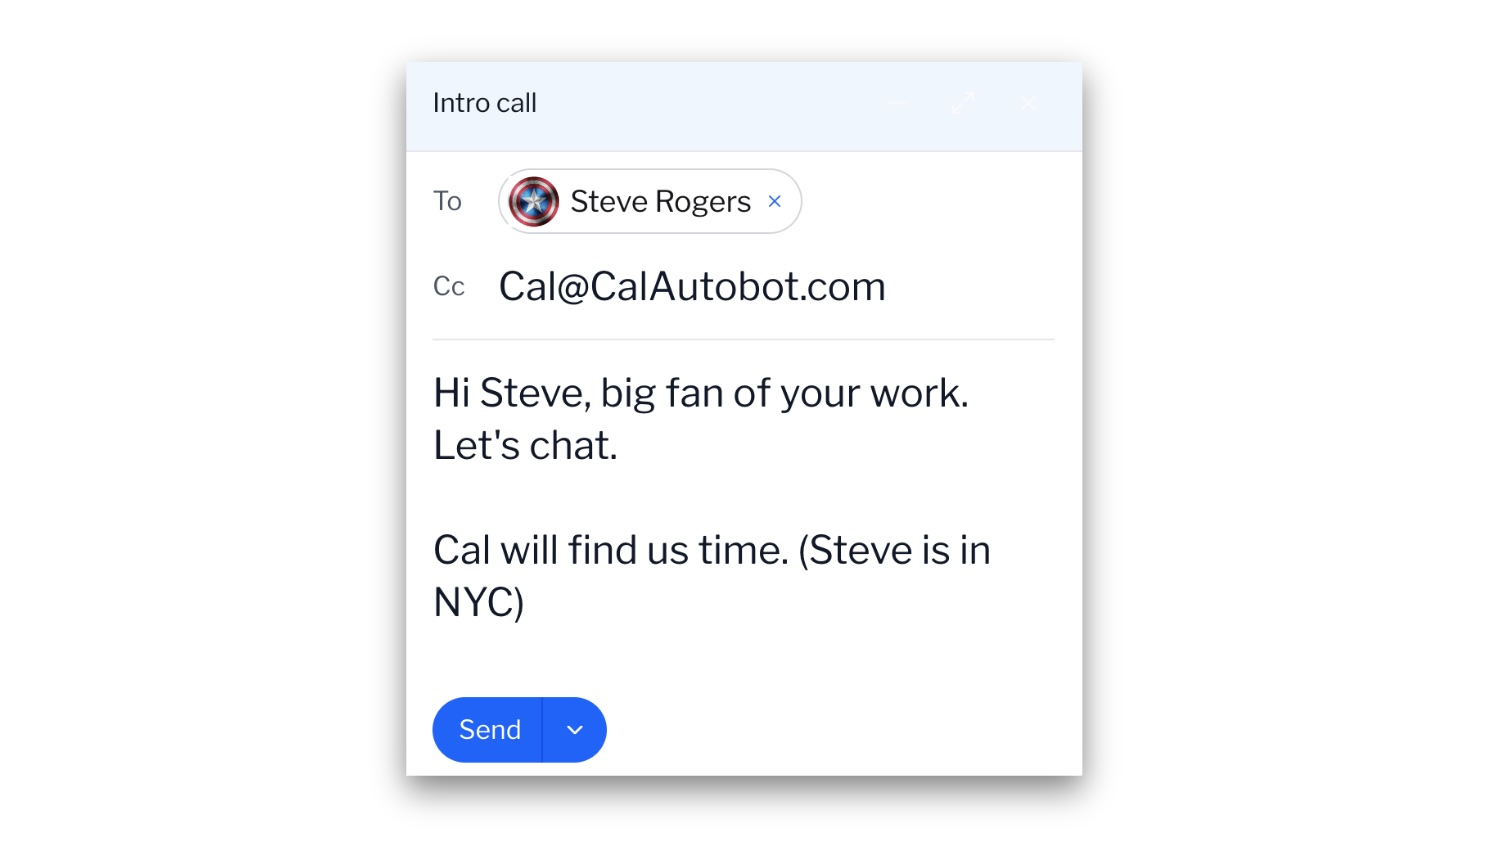
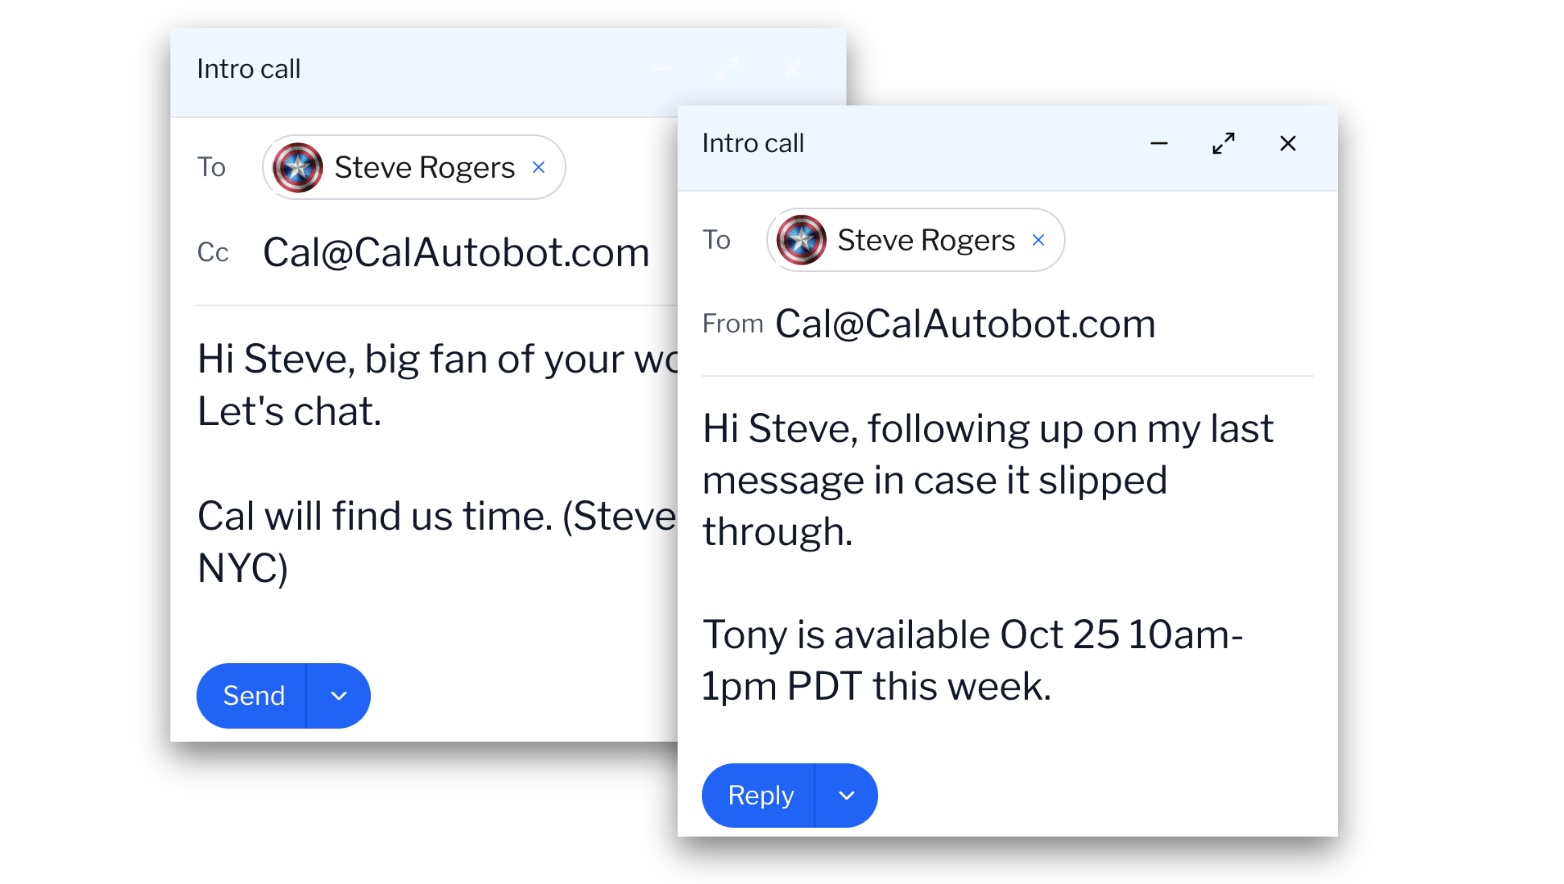
Update product messaging to highlight AI scheduling and follow-up features
Modify Jinja2 templates (base.html, index.html) to reflect enhanced AI scheduling assistant capabilities, including auto follow-ups, reminders, and improved event extraction messaging.

Replit-Commit-Author: Agent
Replit-Commit-Session-Id: d03c0859-d91a-4821-ad53-1dd72adf6981
Replit-Commit-Checkpoint-Type: full_checkpoint
Replit-Commit-Screenshot-Url: https://storage.googleapis.com/screenshot-production-us-central1/2df5bf01-2bac-4ced-b741-7ba31655935b/d03c0859-d91a-4821-ad53-1dd72adf6981/vv8woGl

Changed region(s): [[0.092, 0.061, 0.8893, 0.9765], [0.3067, 0.0915, 0.368, 0.1526], [0.5213, 0.061, 0.552, 0.1221]]

diff --git a/app/templates/index.html b/app/templates/index.html
@@ -629,7 +629,7 @@
         <div class="row justify-content-center">
             <div class="col-lg-10 text-center">
                 <div class="hero-badge">
-                    AI Executive Assistant
+                    AI Scheduling Assistant
                 </div>
 
                 <h1 class="waitlist-title"><strong>Cal,</strong> can you find a time<br/> for us to meet next week?</h1>
@@ -726,8 +726,8 @@
 
         <div class="product-intro-grid">
             <div class="intro-card">
-                <h3>Just CC Cal, 24/7 response</h3>
-                <p>Loop in <strong>Cal@CalAutobot.com</strong> on any thread and Cal reads the full context before proposing times, just like a human scheduler working 24/7.</p>
+                <h3>Auto follow-ups, reminders, 24/7 </h3>
+                <p>Cal reads the full email context, propose times, follows up, and send reminders. Just like a human assistant working 24/7.</p>
                 <div class="intro-card__media">
                     <img src="{{ url_for('static', filename='images/product-cc-cal.jpg') }}" alt="Product shot showing Cal cc'd on an email thread" loading="lazy">
                 </div>
@@ -932,7 +932,7 @@
                     <span class="other-uses-step__badge">Step 1</span>
                     <i data-feather="camera"></i>
                 </div>
-                <h5>Emails, itineraries, flyers, you name it</h5>
+                <h5>Itineraries, flyers, images, you name it</h5>
                 <p>Snap a photo of the event or forward your event confirmation emails.</p>
             </div>
 
@@ -1003,15 +1003,16 @@
                 </a>
                 <p class="fw-semibold mb-2">Includes:</p>
                 <ul class="pricing-features">
-                    <li><i data-feather="check"></i>Email AI assistant</li>
-                    <li><i data-feather="check"></i>Unlimited email scheduling</li>
+                    <li><i data-feather="check"></i>Email AI assistant 🤖</li>
+                    <li><i data-feather="check"></i>Unlimited email scheduling 🤖</li>
                     <li><i data-feather="check"></i>Unlimited bookings</li>
                     <li><i data-feather="check"></i>Unlimited calendars</li>
                     <li><i data-feather="check"></i>Unlimited event types</li>
-                    <li><i data-feather="check"></i>Reminder email</li>
+                    <li><i data-feather="check"></i>Follow up email 🤖</li>
+                    <li><i data-feather="check"></i>Email reminders 🤖</li>
                     <li><i data-feather="check"></i>Public booking page</li>
                     <li><i data-feather="check"></i>Availability settings</li>
-                    <li><i data-feather="check"></i>Unlimited event extraction (images & emails)</li>
+                    <li><i data-feather="check"></i>Unlimited event extraction (images & emails) 🤖</li>
                 </ul>
             </div>
 
@@ -1040,10 +1041,10 @@
                 <p class="fw-semibold mb-2">Everything in Free, plus:</p>
                 <ul class="pricing-features">
                     <li><i data-feather="check"></i>Remove CalAutobot branding</li>
-                    <li><i data-feather="check"></i>Customize AI assistant</li>
+                    <li><i data-feather="check"></i>Customize AI assistant outside of email</li>
                     <li><i data-feather="check"></i>Personalize AI tone & style</li>
                     <li><i data-feather="check"></i>Make AI smarter with your business context</li>
-                    <li><i data-feather="check"></i>Custom AI assistant email domain</li>
+                    <li><i data-feather="check"></i>Custom AI assistant email (AI-name@yourcompany.com)</li>
                     <li><i data-feather="check"></i>Custom booking page with your branding</li>
                 </ul>
             </div>
@@ -1062,34 +1063,110 @@
         
         <div class="row justify-content-center">
             <div class="col-lg-8">
-                <div class="faq-item">
-                    <h4>How does Cal compare to Calendly for Google Calendar scheduling?</h4>
-                    <p>Unlike Calendly, Cal doesn't require recipients to click links or visit websites. It works entirely through email by reading conversation threads and coordinating directly with participants. This maintains the personal touch of email while automating the logistics. Calendly forces people to interact with a separate tool, which creates friction and a 40% drop-off rate.</p>
-                </div>
-                
-                <div class="faq-item">
-                    <h4>Does Cal work with Google Calendar?</h4>
-                    <p>Yes, Cal is designed specifically for Google Calendar integration. It automatically checks your availability, proposes meeting times based on your calendar, and creates Google Calendar events for all participants once a time is confirmed. Everything syncs seamlessly without any manual data entry.</p>
-                </div>
-                
-                <div class="faq-item">
-                    <h4>How much does Cal cost for appointment scheduling?</h4>
-                    <p>Cal Autobot is free. In the future, we'll have more advance features for a small monthly subscription.</p>
-                </div>
-                
-                <div class="faq-item">
-                    <h4>Is Cal better than manual scheduling for online meeting coordination?</h4>
-                    <p>Cal saves sales teams an average of 5+ hours per week compared to manual scheduling. It eliminates the back-and-forth email chains ("Does Tuesday at 2pm work?" "How about Wednesday?") while maintaining the personal touch that scheduling links lack. You get the efficiency of automation with the warmth of direct communication.</p>
-                </div>
-                
-                <div class="faq-item">
-                    <h4>How quickly can I start using Cal for appointment scheduling?</h4>
-                    <p>Setup takes about 30 seconds. Once you have access, you simply CC Cal@CalAutobot.com on any scheduling email thread. Cal reads the conversation context and begins coordinating immediately. No complex configuration, no calendar permissions to manage, no training required.</p>
-                </div>
-                
-                <div class="faq-item">
-                    <h4>What makes Cal different from other AI scheduling assistants?</h4>
-                    <p>Cal focuses on maintaining natural, human-like email conversations. Unlike scheduling links that feel transactional, Cal participates in email threads just like a real executive assistant would. It understands context, handles time zone confusion, and adapts to conversational scheduling requests rather than forcing people into rigid booking flows.</p>
+                <div class="accordion" id="faqAccordion">
+                    <div class="accordion-item">
+                        <h2 class="accordion-header" id="faqHeadingOne">
+                            <button class="accordion-button collapsed" type="button" data-bs-toggle="collapse" data-bs-target="#faqCollapseOne" aria-expanded="false" aria-controls="faqCollapseOne">
+                                How does Cal compare to Calendly for Google Calendar scheduling?
+                            </button>
+                        </h2>
+                        <div id="faqCollapseOne" class="accordion-collapse collapse" aria-labelledby="faqHeadingOne" data-bs-parent="#faqAccordion">
+                            <div class="accordion-body">
+                                Unlike Calendly, Cal doesn't require recipients to click links or visit websites. It works entirely through email by reading conversation threads and coordinating directly with participants. This maintains the personal touch of email while automating the logistics. Calendly forces people to interact with a separate tool, which creates friction and a 40% drop-off rate.
+                            </div>
+                        </div>
+                    </div>
+
+                    <div class="accordion-item">
+                        <h2 class="accordion-header" id="faqHeadingTwo">
+                            <button class="accordion-button collapsed" type="button" data-bs-toggle="collapse" data-bs-target="#faqCollapseTwo" aria-expanded="false" aria-controls="faqCollapseTwo">
+                                Does Cal work with Google Calendar?
+                            </button>
+                        </h2>
+                        <div id="faqCollapseTwo" class="accordion-collapse collapse" aria-labelledby="faqHeadingTwo" data-bs-parent="#faqAccordion">
+                            <div class="accordion-body">
+                                Yes, Cal is designed specifically for Google Calendar integration. It automatically checks your availability, proposes meeting times based on your calendar, and creates Google Calendar events for all participants once a time is confirmed. Everything syncs seamlessly without any manual data entry.
+                            </div>
+                        </div>
+                    </div>
+
+                    <div class="accordion-item">
+                        <h2 class="accordion-header" id="faqHeadingThree">
+                            <button class="accordion-button collapsed" type="button" data-bs-toggle="collapse" data-bs-target="#faqCollapseThree" aria-expanded="false" aria-controls="faqCollapseThree">
+                                How much does Cal cost for appointment scheduling?
+                            </button>
+                        </h2>
+                        <div id="faqCollapseThree" class="accordion-collapse collapse" aria-labelledby="faqHeadingThree" data-bs-parent="#faqAccordion">
+                            <div class="accordion-body">
+                                Cal Autobot is free. In the future, we'll have more advance features for a small monthly subscription.
+                            </div>
+                        </div>
+                    </div>
+
+                    <div class="accordion-item">
+                        <h2 class="accordion-header" id="faqHeadingFour">
+                            <button class="accordion-button collapsed" type="button" data-bs-toggle="collapse" data-bs-target="#faqCollapseFour" aria-expanded="false" aria-controls="faqCollapseFour">
+                                Is Cal better than manual scheduling for online meeting coordination?
+                            </button>
+                        </h2>
+                        <div id="faqCollapseFour" class="accordion-collapse collapse" aria-labelledby="faqHeadingFour" data-bs-parent="#faqAccordion">
+                            <div class="accordion-body">
+                                Cal saves sales teams an average of 5+ hours per week compared to manual scheduling. It eliminates the back-and-forth email chains ("Does Tuesday at 2pm work?" "How about Wednesday?") while maintaining the personal touch that scheduling links lack. You get the efficiency of automation with the warmth of direct communication.
+                            </div>
+                        </div>
+                    </div>
+
+                    <div class="accordion-item">
+                        <h2 class="accordion-header" id="faqHeadingFive">
+                            <button class="accordion-button collapsed" type="button" data-bs-toggle="collapse" data-bs-target="#faqCollapseFive" aria-expanded="false" aria-controls="faqCollapseFive">
+                                How quickly can I start using Cal for appointment scheduling?
+                            </button>
+                        </h2>
+                        <div id="faqCollapseFive" class="accordion-collapse collapse" aria-labelledby="faqHeadingFive" data-bs-parent="#faqAccordion">
+                            <div class="accordion-body">
+                                Setup takes about 30 seconds. Once you have access, you simply CC Cal@CalAutobot.com on any scheduling email thread. Cal reads the conversation context and begins coordinating immediately. No complex configuration, no calendar permissions to manage, no training required.
+                            </div>
+                        </div>
+                    </div>
+
+                    <div class="accordion-item">
+                        <h2 class="accordion-header" id="faqHeadingSix">
+                            <button class="accordion-button collapsed" type="button" data-bs-toggle="collapse" data-bs-target="#faqCollapseSix" aria-expanded="false" aria-controls="faqCollapseSix">
+                                What makes Cal different from other AI scheduling assistants?
+                            </button>
+                        </h2>
+                        <div id="faqCollapseSix" class="accordion-collapse collapse" aria-labelledby="faqHeadingSix" data-bs-parent="#faqAccordion">
+                            <div class="accordion-body">
+                                Cal focuses on maintaining natural, human-like email conversations. Unlike scheduling links that feel transactional, Cal participates in email threads just like a real executive assistant would. It understands context, handles time zone confusion, and adapts to conversational scheduling requests rather than forcing people into rigid booking flows.
+                            </div>
+                        </div>
+                    </div>
+
+                    <div class="accordion-item">
+                        <h2 class="accordion-header" id="faqHeadingSeven">
+                            <button class="accordion-button collapsed" type="button" data-bs-toggle="collapse" data-bs-target="#faqCollapseSeven" aria-expanded="false" aria-controls="faqCollapseSeven">
+                                Do you also have a booking page and public links like Calendly?
+                            </button>
+                        </h2>
+                        <div id="faqCollapseSeven" class="accordion-collapse collapse" aria-labelledby="faqHeadingSeven" data-bs-parent="#faqAccordion">
+                            <div class="accordion-body">
+                                Yes. Cal generates a polished public booking page with your event types, availability, and branding so you can share a link in signatures, on websites, or by text. Invitees can still self-book when it makes sense, while you keep Cal running in email threads for high-touch scheduling.
+                            </div>
+                        </div>
+                    </div>
+
+                    <div class="accordion-item">
+                        <h2 class="accordion-header" id="faqHeadingEight">
+                            <button class="accordion-button collapsed" type="button" data-bs-toggle="collapse" data-bs-target="#faqCollapseEight" aria-expanded="false" aria-controls="faqCollapseEight">
+                                I'm a physical small business—can I use your booking tool?
+                            </button>
+                        </h2>
+                        <div id="faqCollapseEight" class="accordion-collapse collapse" aria-labelledby="faqHeadingEight" data-bs-parent="#faqAccordion">
+                            <div class="accordion-body">
+                                Absolutely. Service-based shops use Cal to confirm appointments over email, send reminders, and capture walk-in leads via the public booking page. You can define appointment lengths, business hours, multiple calendars so Cal fits everything from salons and clinics to repair services.
+                            </div>
+                        </div>
+                    </div>
                 </div>
             </div>
         </div>

diff --git a/app/templates/base.html b/app/templates/base.html
@@ -55,7 +55,7 @@
                 <div class="landing-nav-links">
                     <a class="landing-link" href="{{ url_for('main_routes.index') }}#how-it-works">How it works</a>
                     <a class="landing-link" href="{{ url_for('main_routes.index') }}#product">Product</a>
-                    <a class="landing-link" href="{{ url_for('main_routes.index') }}#email-to-calendar">Emails, Images → Calendar</a>
+                    <a class="landing-link" href="{{ url_for('main_routes.index') }}#email-to-calendar">Images → Calendar</a>
                     <a class="landing-link" href="{{ url_for('main_routes.index') }}#pricing">Pricing</a>
                 </div>
                 <a class="google-signin-btn google-signin-btn-dark google-signin-btn-large" href="#" onclick="startGoogleLogin(); return false;">
